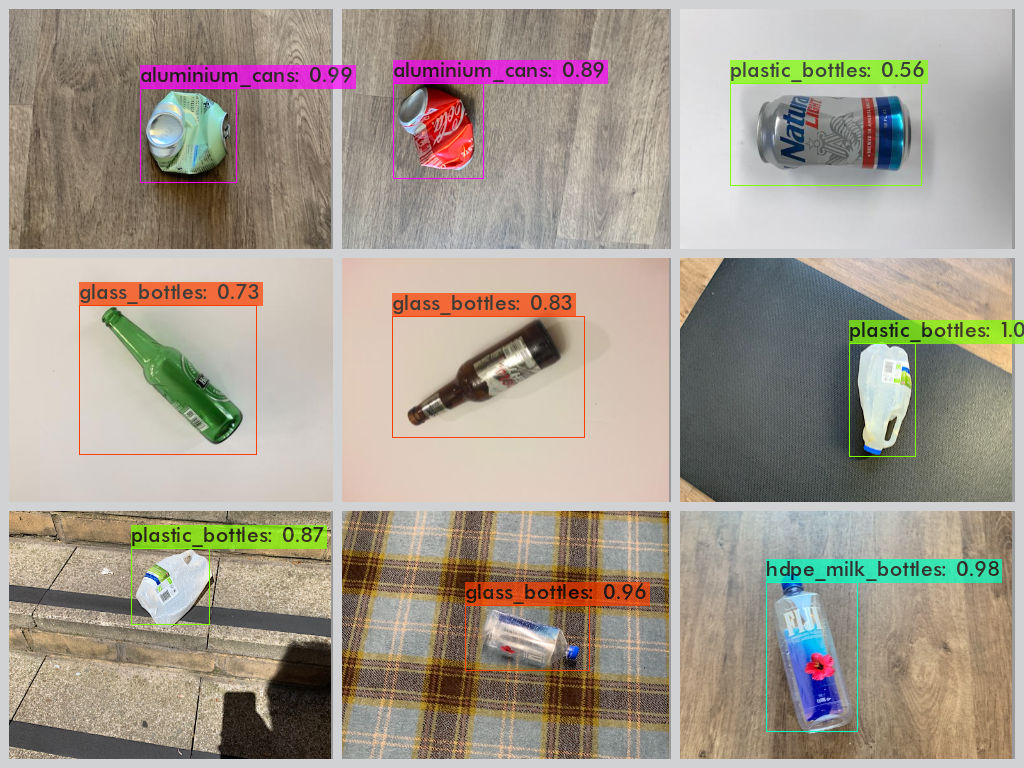
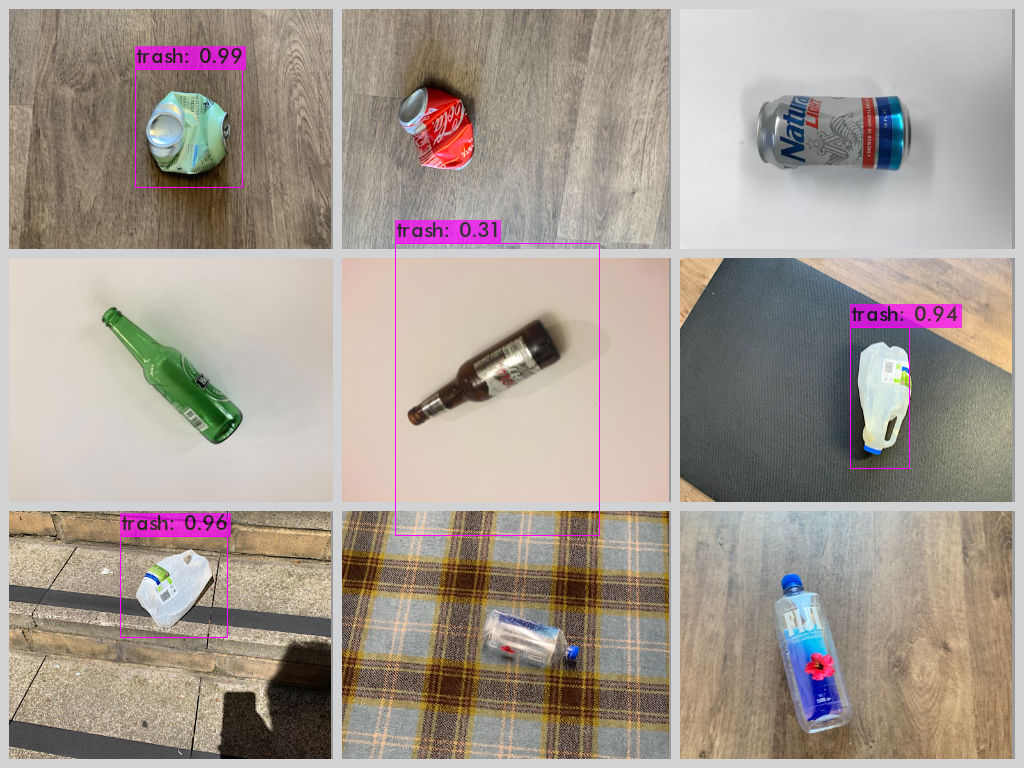
Improving total of the object names

diff --git a/src/image.c b/src/image.c
@@ -174,21 +174,20 @@ void draw_weighted_label(image a, int r, int c, image label, const float *rgb, c
     }
 }
 
-void print_total_objects(char label[300][4096], int total_detection) {
+void print_total_objects(char label[300][4096], int total_detection, int total_objects) {
     typedef struct {
         char Key[4096];
         int Value;
     }Map;
-    Map map[300];
+    Map map[total_objects];
+    
+    printf("\n<===============End Result===============>\n");
     int isExist;
     int temp = 0;
     int point;
-    int totalObject = 0;
-    
-    printf("\n<===============End Result===============>\n");
     for (int i = 0; i < total_detection; ++i) {
         isExist = 0;
-        for (int j = 0; j < total_detection; ++j) {
+        for (int j = 0; j < total_objects; ++j) {
             int checkExistingKey = strcmp(label[i], map[j].Key);
             if (checkExistingKey == 0) {
                 isExist = 1;
@@ -202,13 +201,12 @@ void print_total_objects(char label[300][4096], int total_detection) {
             map[temp].Value = 0;
             map[temp].Value++;
             temp++;
-            totalObject++;
         } else {
             map[point].Value++;
         }
     }
 
-    for (int i = 0; i < totalObject; i++) {
+    for (int i = 0; i < total_objects; i++) {
         printf("Total of %s is %d\n", map[i].Key, map[i].Value);
     }
     // printf()
@@ -501,7 +499,23 @@ void draw_detections_v3(image im, detection *dets, int num, float thresh, char *
                 free_image(tmask);
             }
     }
-    print_total_objects(allLabel, selected_detections_num);
+    char c;
+    int total_objects = 1;
+    FILE *file = fopen("data/obj.names", "r");
+
+    if (file == NULL) {
+        perror("Error while opening the file.\n");
+        exit(EXIT_FAILURE);
+    }
+
+    while((c = fgetc(file)) != EOF) {
+        if (c == 10) {
+            ++total_objects;
+        }
+    }
+    fclose(file);
+
+    print_total_objects(allLabel, selected_detections_num, total_objects);
     free(selected_detections);
 }
 

diff --git a/src/image_opencv.cpp b/src/image_opencv.cpp
@@ -912,7 +912,6 @@ extern "C" void draw_detections_cv_v3(mat_cv* mat, detection *dets, int num, flo
                 if (dets[i].prob[j] > thresh && show) {
                     if (class_id < 0) {
                         strcat(labelstr, names[j]);
-                        strcat(labelstr, "TEsttttVideo");
                         class_id = j;
                         char buff[20];
                         if (dets[i].track_id) {
